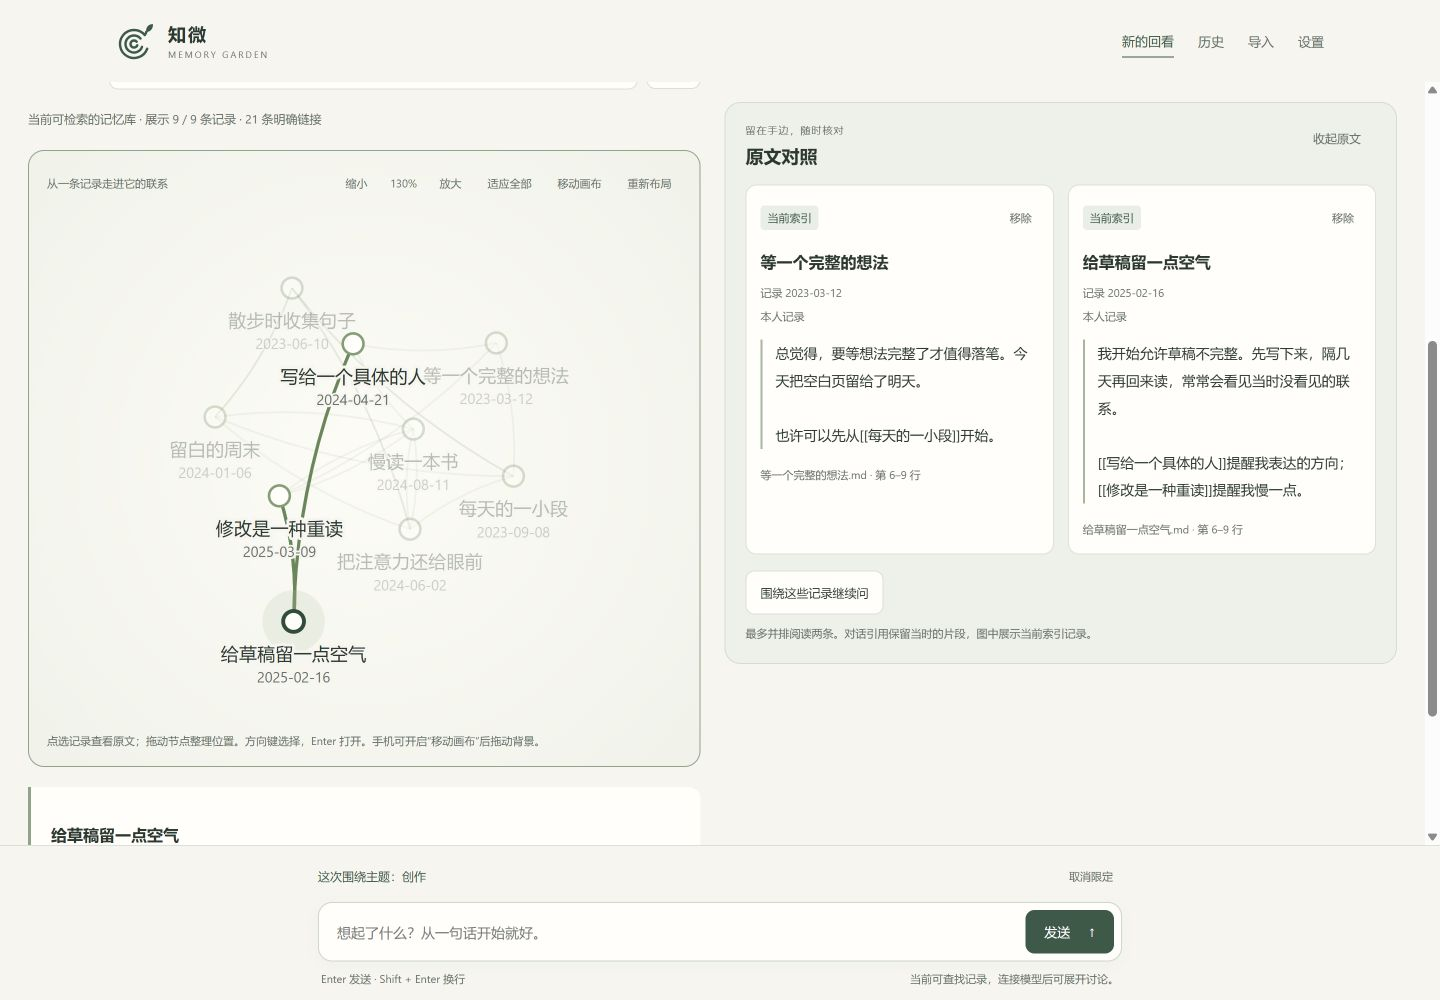
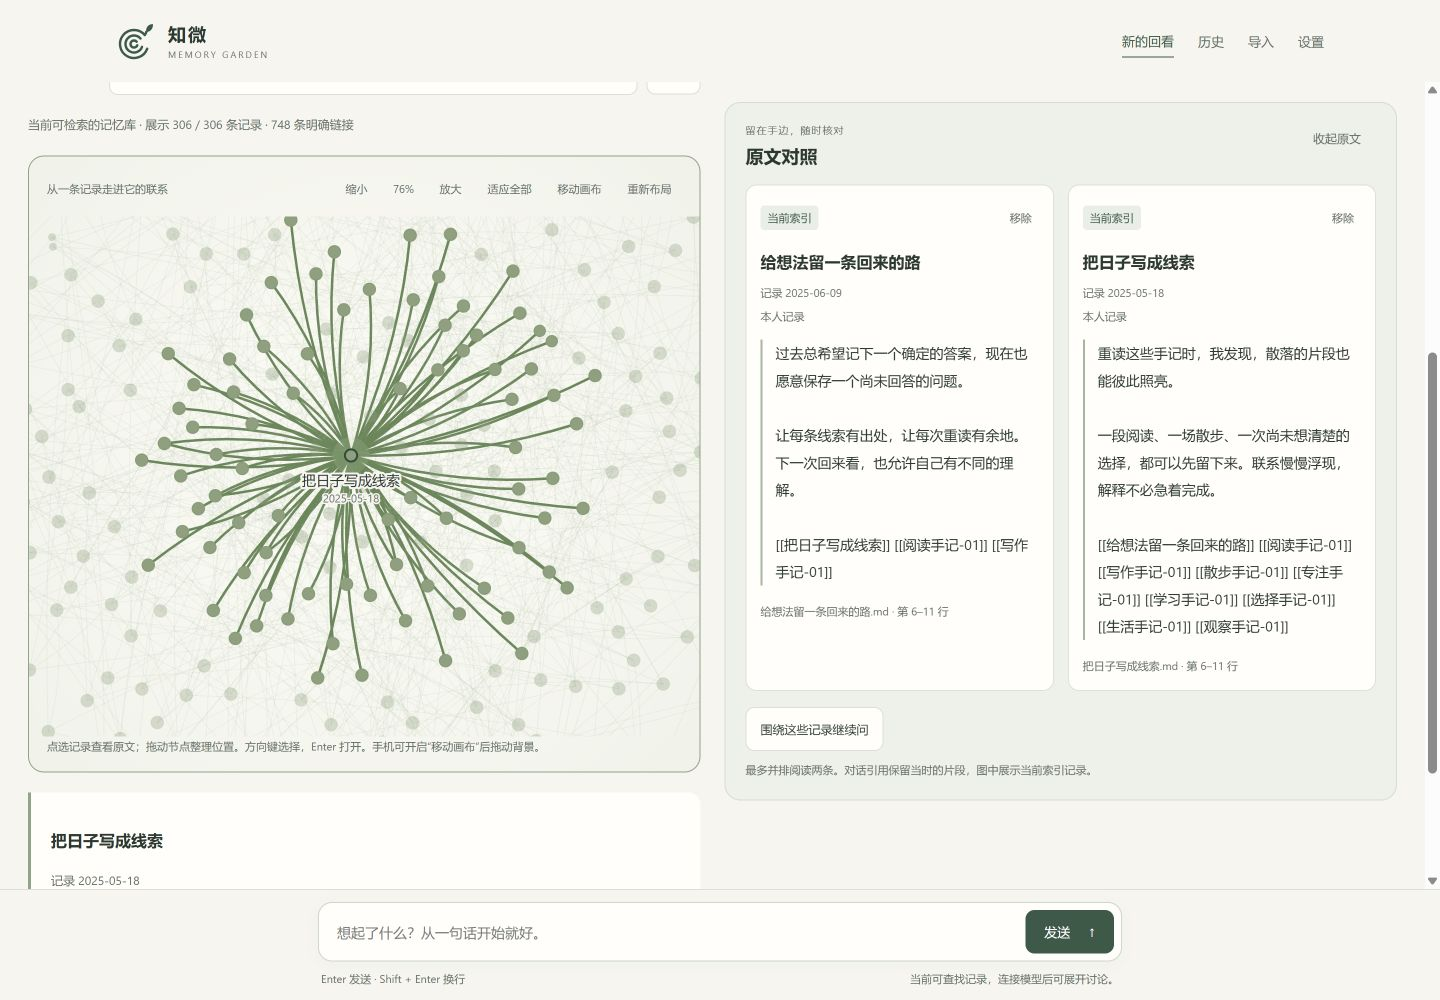
docs: showcase a dense global graph and refine product copy

diff --git a/examples/generate_graph_showcase.py b/examples/generate_graph_showcase.py
@@ -1,0 +1,43 @@
+"""Create a deterministic, entirely fictional 306-note graph showcase.
+
+Usage: python examples/generate_graph_showcase.py .local/graph-showcase-vault
+The destination must not already exist. No original notes are read.
+"""
+
+import sys
+from datetime import date, timedelta
+from pathlib import Path
+
+
+def generate(destination: Path) -> None:
+    destination.mkdir(parents=True, exist_ok=False)
+    topics = ['阅读', '写作', '散步', '专注', '学习', '选择', '生活', '观察']
+    hub = '把日子写成线索'
+    companion = '给想法留一条回来的路'
+    names = [[f'{topic}手记-{i + 1:02d}' for i in range(38)] for topic in topics]
+
+    def write(title: str, body: str, links: list[str], day: date) -> None:
+        text = f'---\ntitle: {title}\ncreated: {day.isoformat()}\ntags: [合成展示]\n---\n\n{body}\n\n'
+        text += ' '.join(f'[[{link}]]' for link in dict.fromkeys(links)) + '\n'
+        (destination / f'{title}.md').write_text(text, encoding='utf-8')
+
+    write(hub, '重读这些手记时，我发现，散落的片段也能彼此照亮。\n\n一段阅读、一场散步、一次尚未想清楚的选择，都可以先留下来。联系慢慢浮现，解释不必急着完成。',
+          [companion, *(group[0] for group in names)], date(2025, 5, 18))
+    write(companion, '过去总希望记下一个确定的答案，现在也愿意保存一个尚未回答的问题。\n\n让每条线索有出处，让每次重读有余地。下一次回来看，也允许自己有不同的理解。',
+          [hub, names[0][0], names[1][0]], date(2025, 6, 9))
+    for group_index, group in enumerate(names):
+        for index, title in enumerate(group):
+            links = [group[(index + 1) % 38], group[(index + 5) % 38]]
+            if index % 4 == 0:
+                links.append(hub)
+            if index % 7 == 0:
+                links.append(names[(group_index + 1) % len(names)][index])
+            write(title, f'这是用于界面展示的虚构{topics[group_index]}片段。\n\n今天留下一点观察，下一次回读时，再看看它与其他记录有什么联系。',
+                  links, date(2023, 1, 1) + timedelta(days=group_index * 91 + index * 3))
+    print(f'Created 306 synthetic notes in {destination}')
+
+
+if __name__ == '__main__':
+    if len(sys.argv) != 2:
+        raise SystemExit(__doc__)
+    generate(Path(sys.argv[1]))
